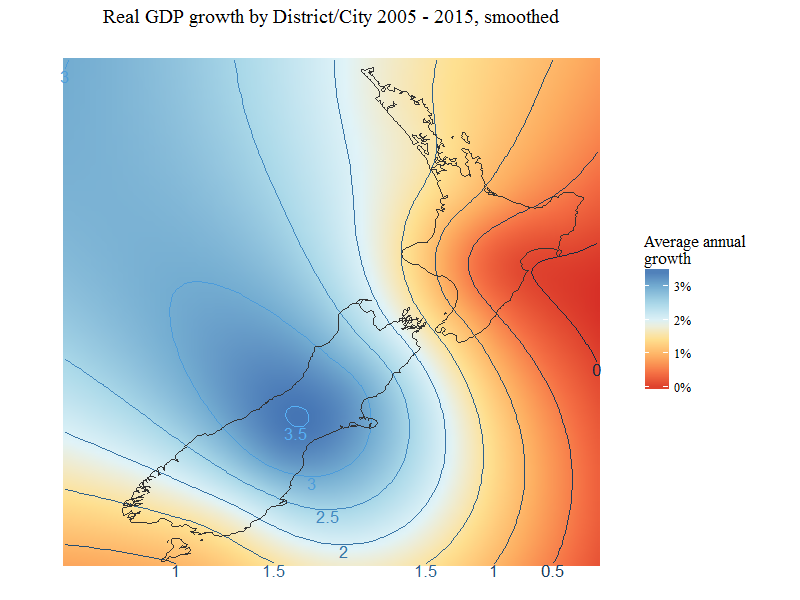
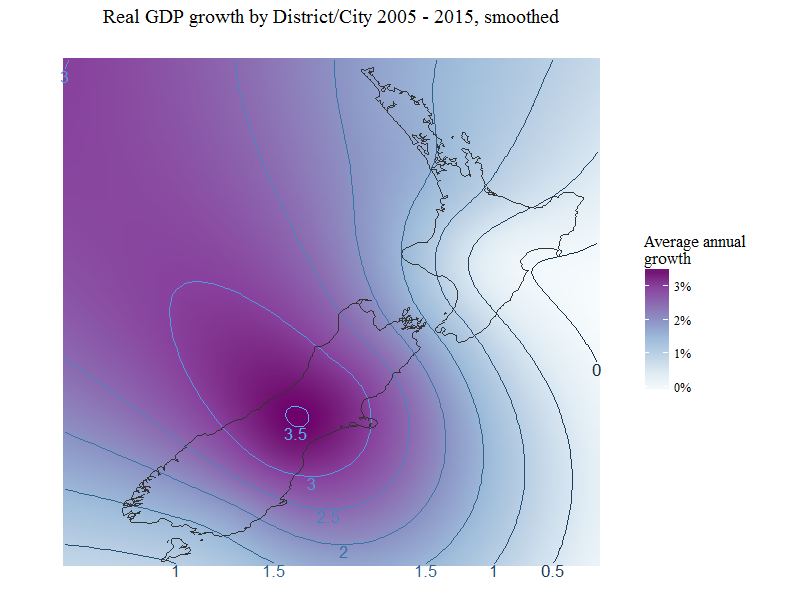
Improve colours, fix numberous minor typos etc.

diff --git a/tables/gam.tex b/tables/gam.tex
@@ -1,6 +1,6 @@
 
 % Table created by stargazer v.5.2 by Marek Hlavac, Harvard University. E-mail: hlavac at fas.harvard.edu
-% Date and time: Sun, Jun 12, 2016 - 10:38:39 AM
+% Date and time: Sun, Jun 12, 2016 - 2:26:17 PM
 \begin{table}[!htbp] \centering 
   \caption{} 
   \label{} 
